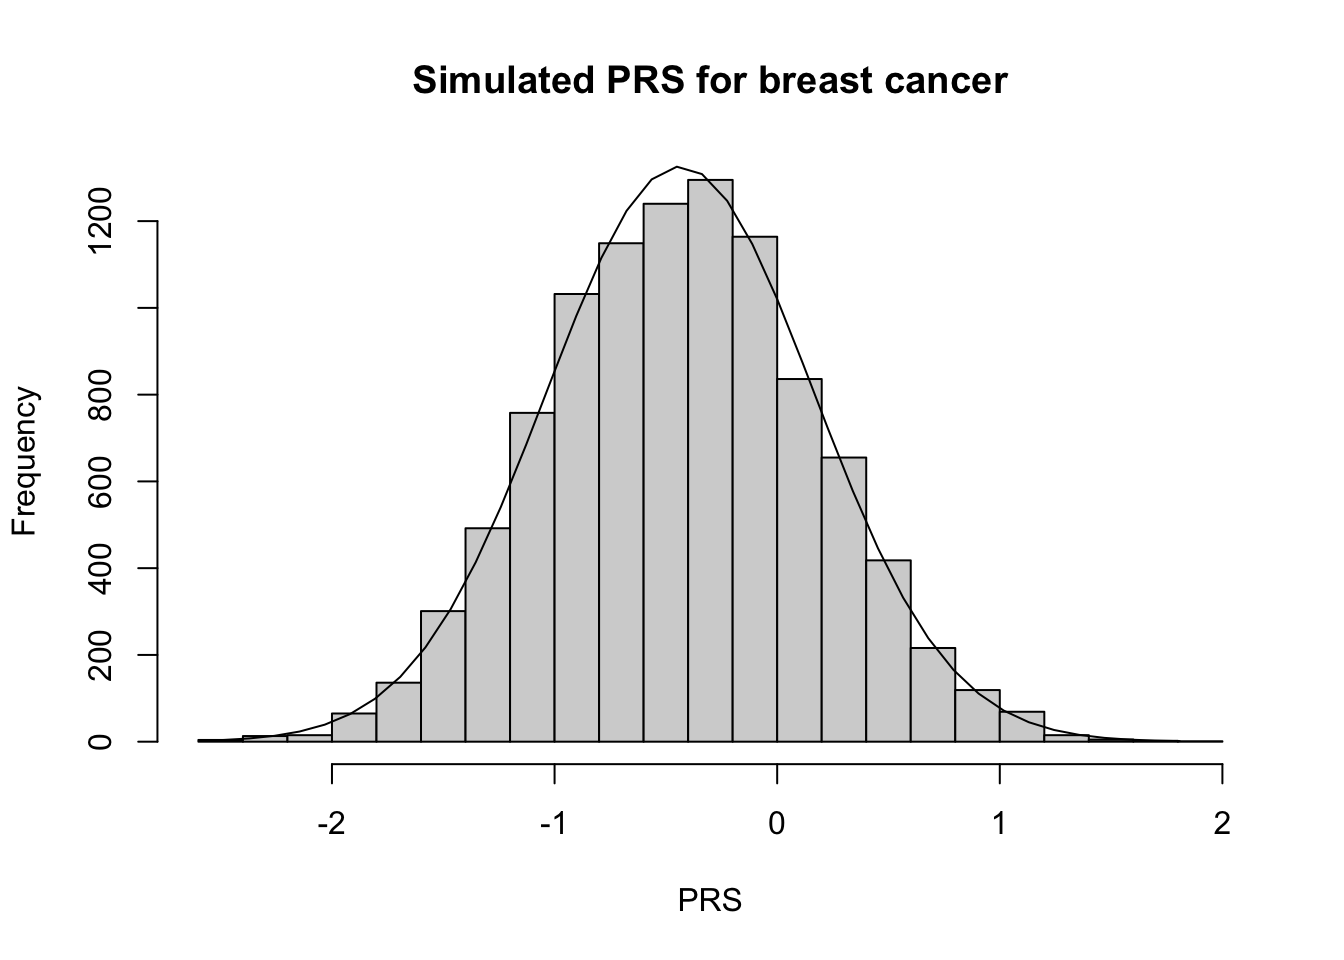
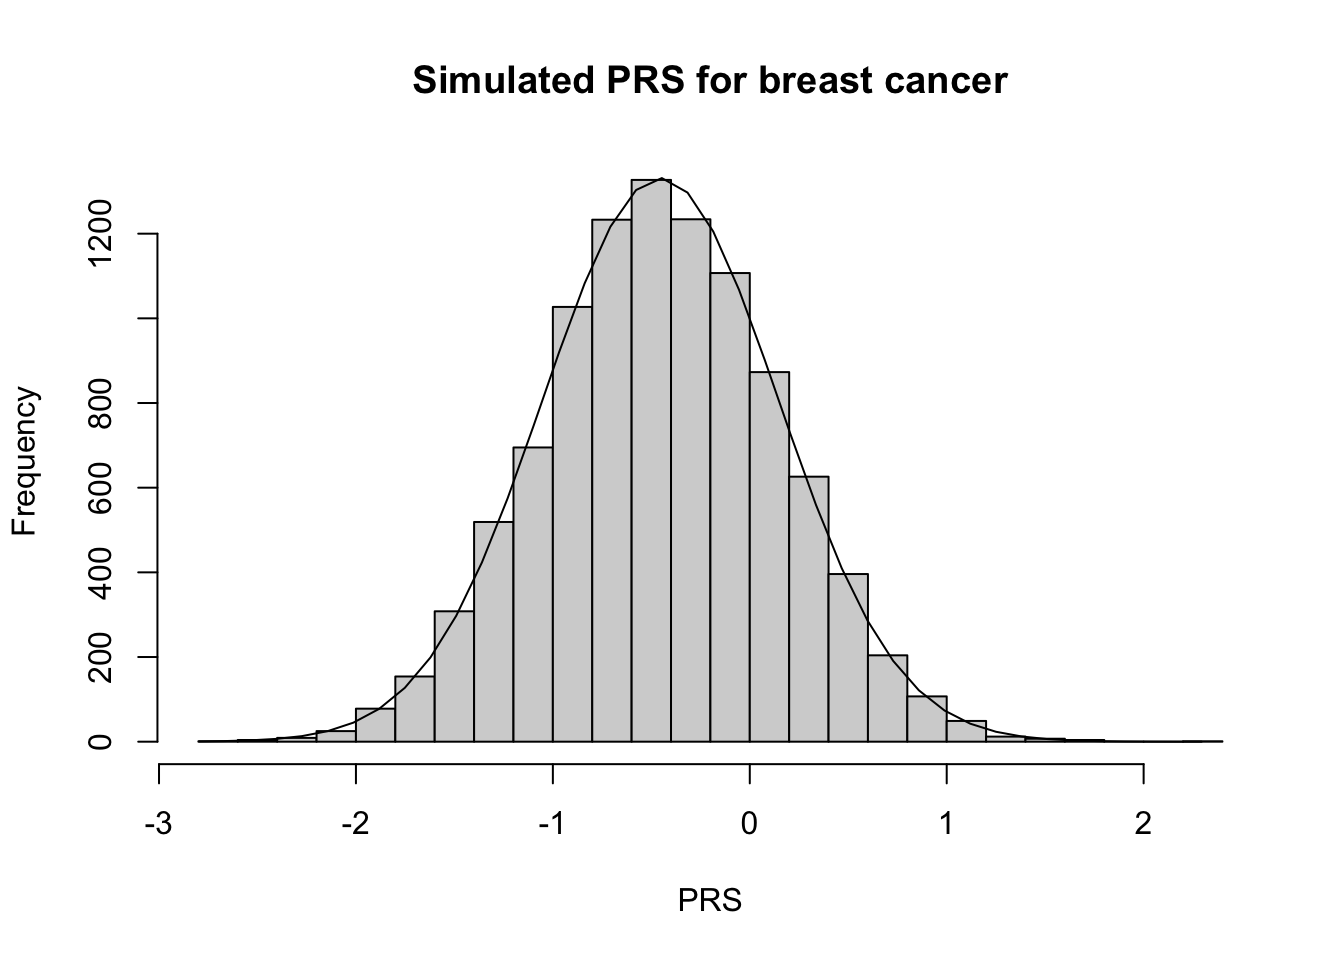
fixed typo in PRS demo

diff --git a/docs/posts/PRS_CLT_demo.html b/docs/posts/PRS_CLT_demo.html
@@ -291,7 +291,7 @@ PRS = \sum_{i=1}^{n} \beta_i G_i
 \mathbb{E}[PRS] &amp;= \mathbb{E}[\sum_{i=1}^{n}\beta_i G_i] \\
 &amp;= \sum_{i=1}^{n}\mathbb{E}[\beta_i G_i] \because \text{independent} \\
 &amp;= \sum_{i=1}^{n}\beta_i \mathbb{E}[G_i] \\
-&amp;= \sum_{i=1}^{n}\beta_i p_i &lt; \infty
+&amp;= \sum_{i=1}^{n} \beta_i 2p_i &lt; \infty
 \end{align*}\]</span>
 <span class="math display">\[\begin{align*}
 var(PRS) &amp;= var(\sum_{i=1}^{n} \beta_i G_i) \\
@@ -337,8 +337,8 @@ G_i \sim Bin(2,p_i)
 <span id="cb1-21"><a href="#cb1-21" aria-hidden="true" tabindex="-1"></a><span class="fu">make_table</span>(PRS_id_thyroid)</span></code><button title="Copy to Clipboard" class="code-copy-button"><i class="bi"></i></button></pre></div>
 </details>
 <div class="cell-output-display">
-<div class="datatables html-widget html-fill-item" id="htmlwidget-704bb4510da9e1baa7f8" style="width:100%;height:auto;"></div>
-<script type="application/json" data-for="htmlwidget-704bb4510da9e1baa7f8">{"x":{"filter":"none","vertical":false,"data":[["1","2","3","4","5","6","7","8","9","10","11","12"],["rs12129938","rs11693806","rs6793295","rs73227498","rs2466076","rs13284787","rs1588635","rs7902587","rs944289","rs116909374","rs56062135","rs2289261"],[1,2,3,5,8,9,9,10,14,14,15,15],[233412561,218292158,169518455,111485904,32432796,4811553,100537802,105694301,36649246,36738361,67455630,67457485],["A","C","T","A","G","A","A","T","T","T","T","C"],["G","G","C","T","T","G","C","C","C","C","C","G"],[0.2776,0.3577,0.207,0.3148,0.2776,0.6981000000000001,0.5247000000000001,0.3436,0.3001,0.5933,0.2151,0.207],[0.795,0.319,0.759,0.872,0.484,0.8100000000000001,0.396,0.109,0.603,0.034,0.253,0.6830000000000001]],"container":"<table class=\"display\">\n  <thead>\n    <tr>\n      <th> <\/th>\n      <th>rsID<\/th>\n      <th>Chr<\/th>\n      <th>Position<\/th>\n      <th>Effect allele<\/th>\n      <th>Other allele<\/th>\n      <th>Effect weight<\/th>\n      <th>Effect allele freq.<\/th>\n    <\/tr>\n  <\/thead>\n<\/table>","options":{"pageLength":25,"columnDefs":[{"className":"dt-right","targets":[2,3,6,7]},{"orderable":false,"targets":0},{"name":" ","targets":0},{"name":"rsID","targets":1},{"name":"Chr","targets":2},{"name":"Position","targets":3},{"name":"Effect allele","targets":4},{"name":"Other allele","targets":5},{"name":"Effect weight","targets":6},{"name":"Effect allele freq.","targets":7}],"order":[],"autoWidth":false,"orderClasses":false}},"evals":[],"jsHooks":[]}</script>
+<div class="datatables html-widget html-fill-item" id="htmlwidget-03165f7b5b71640be775" style="width:100%;height:auto;"></div>
+<script type="application/json" data-for="htmlwidget-03165f7b5b71640be775">{"x":{"filter":"none","vertical":false,"data":[["1","2","3","4","5","6","7","8","9","10","11","12"],["rs12129938","rs11693806","rs6793295","rs73227498","rs2466076","rs13284787","rs1588635","rs7902587","rs944289","rs116909374","rs56062135","rs2289261"],[1,2,3,5,8,9,9,10,14,14,15,15],[233412561,218292158,169518455,111485904,32432796,4811553,100537802,105694301,36649246,36738361,67455630,67457485],["A","C","T","A","G","A","A","T","T","T","T","C"],["G","G","C","T","T","G","C","C","C","C","C","G"],[0.2776,0.3577,0.207,0.3148,0.2776,0.6981000000000001,0.5247000000000001,0.3436,0.3001,0.5933,0.2151,0.207],[0.795,0.319,0.759,0.872,0.484,0.8100000000000001,0.396,0.109,0.603,0.034,0.253,0.6830000000000001]],"container":"<table class=\"display\">\n  <thead>\n    <tr>\n      <th> <\/th>\n      <th>rsID<\/th>\n      <th>Chr<\/th>\n      <th>Position<\/th>\n      <th>Effect allele<\/th>\n      <th>Other allele<\/th>\n      <th>Effect weight<\/th>\n      <th>Effect allele freq.<\/th>\n    <\/tr>\n  <\/thead>\n<\/table>","options":{"pageLength":25,"columnDefs":[{"className":"dt-right","targets":[2,3,6,7]},{"orderable":false,"targets":0},{"name":" ","targets":0},{"name":"rsID","targets":1},{"name":"Chr","targets":2},{"name":"Position","targets":3},{"name":"Effect allele","targets":4},{"name":"Other allele","targets":5},{"name":"Effect weight","targets":6},{"name":"Effect allele freq.","targets":7}],"order":[],"autoWidth":false,"orderClasses":false}},"evals":[],"jsHooks":[]}</script>
 </div>
 </div>
 <div class="cell">

diff --git a/docs/posts.html b/docs/posts.html
@@ -284,7 +284,7 @@ window.Quarto = {
 </a>
 </div>
 </div>
-<div class="quarto-post image-right" data-index="3" data-listing-file-modified-sort="1752508636072" data-listing-reading-time-sort="9" data-listing-word-count-sort="1615">
+<div class="quarto-post image-right" data-index="3" data-listing-file-modified-sort="1754939472306" data-listing-reading-time-sort="9" data-listing-word-count-sort="1616">
 <div class="thumbnail">
 <p><a href="./posts/PRS_CLT_demo.html" class="no-external"></a></p><a href="./posts/PRS_CLT_demo.html" class="no-external">
 <p class="card-img-top"><img src="posts/PRS_CLT_demo_files/figure-html/define sim function-1.png"  class="thumbnail-image card-img"/></p>
